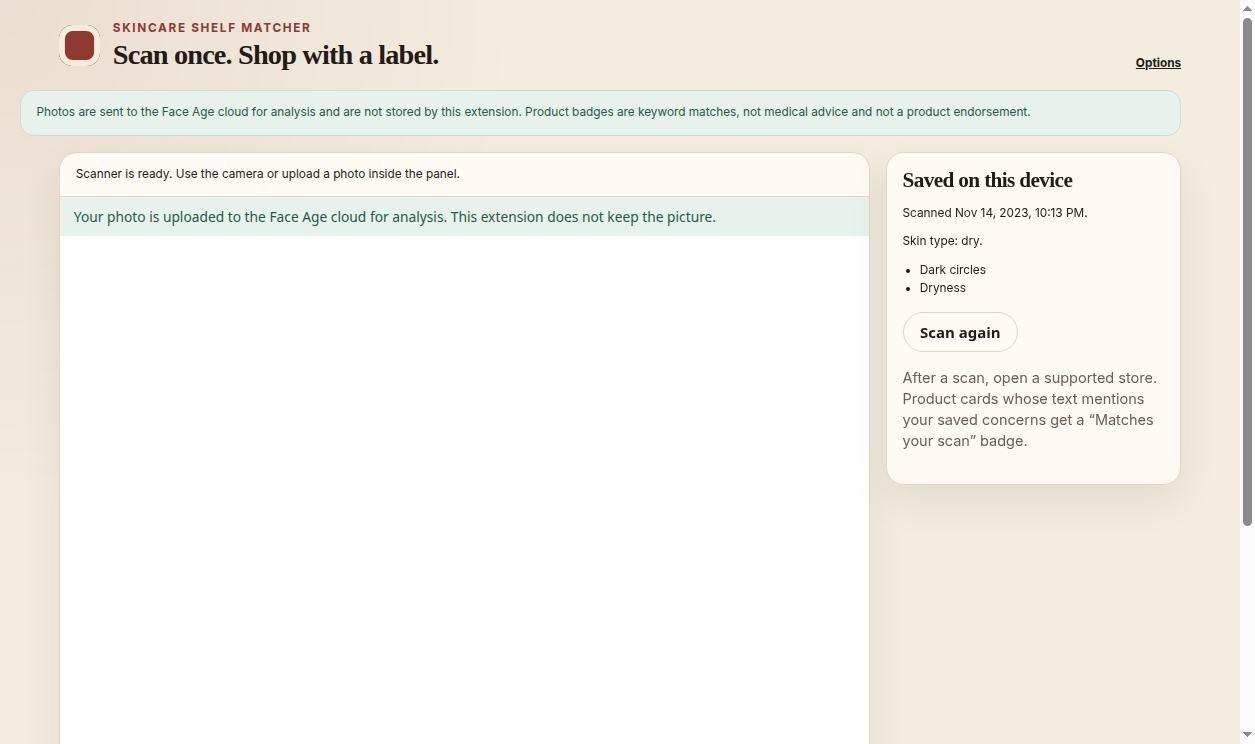
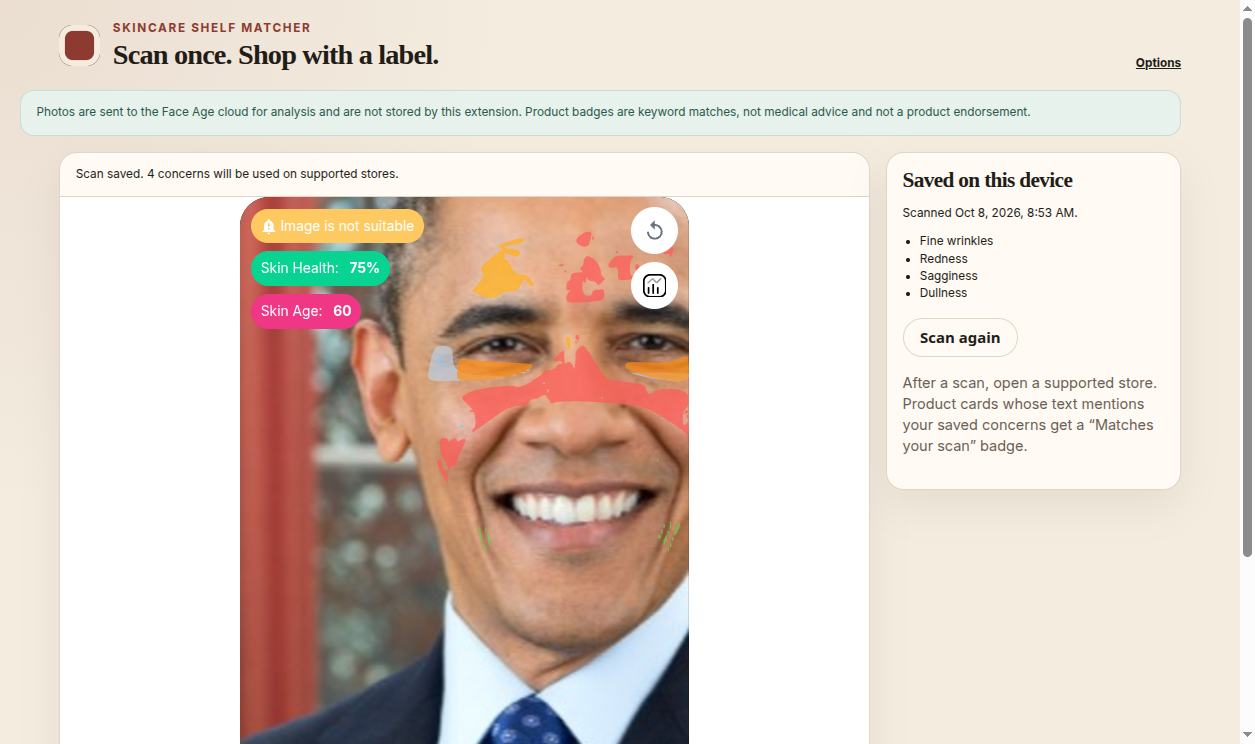
Keep the Face Age widget iframe on the scan page.
The SDK creates about:blank #FaceAge-module-iframe and writes the scanner into it. CSP patches for local scripts and no eval stay, and a sample photo can finish analysis when WebGL runs.

diff --git a/src/scan/scan.ts b/src/scan/scan.ts
@@ -62,12 +62,44 @@ function openOptions(event?: Event): void {
 document.querySelector("#options-link")?.addEventListener("click", openOptions);
 document.querySelector("#open-options")?.addEventListener("click", openOptions);
 
+function widgetFrame(): HTMLIFrameElement | null {
+  const frame = moduleEl?.querySelector("#FaceAge-module-iframe");
+  return frame instanceof HTMLIFrameElement ? frame : null;
+}
+
+/** Parent styles do not apply inside the widget frame, so copy the body rule across. */
+function pinWidgetBody(frame: HTMLIFrameElement): void {
+  const doc = frame.contentDocument;
+  if (!doc?.head || doc.getElementById("shelf-widget-body-style")) return;
+  let css = "#faceAge-module-body{height:760px !important;position:relative}";
+  for (const sheet of document.styleSheets) {
+    let rules: CSSRuleList;
+    try {
+      rules = sheet.cssRules;
+    } catch {
+      continue;
+    }
+    for (const rule of rules) {
+      if (rule instanceof CSSStyleRule && rule.selectorText === "#faceAge-module-body") {
+        css = rule.cssText;
+      }
+    }
+  }
+  const style = doc.createElement("style");
+  style.id = "shelf-widget-body-style";
+  style.textContent = css;
+  doc.head.appendChild(style);
+}
+
 function watchUntilMounted(): void {
   const timer = window.setInterval(() => {
+    const frame = widgetFrame();
+    const doc = frame?.contentDocument;
+    if (frame) pinWidgetBody(frame);
     const mounted =
-      moduleEl?.querySelector(".face_age, .getStartedBtn") ||
-      document.getElementById("face-age-css") ||
-      document.getElementById("faceAge-module-body");
+      doc?.querySelector(".face_age, .getStartedBtn") ||
+      doc?.getElementById("face-age-css") ||
+      doc?.getElementById("faceAge-module-body");
     if (!mounted) return;
     window.clearInterval(timer);
     setStatus("ready", "Scanner is ready. Use the camera or upload a photo inside the panel.");
@@ -161,7 +193,10 @@ async function boot(): Promise<void> {
 }
 
 function showMissingClientId(): void {
-  setStatus("needs-client-id", "Add a Face Age Client ID in the extension settings before scanning.");
+  setStatus(
+    "needs-client-id",
+    "Add a Face Age Client ID in the extension settings before scanning.",
+  );
   if (setupCopy) setupCopy.textContent = SETUP_MESSAGE;
   if (missingEl) missingEl.hidden = false;
   if (moduleEl) moduleEl.hidden = true;

diff --git a/tests/patch-faceage.test.ts b/tests/patch-faceage.test.ts
@@ -7,8 +7,11 @@ import {
   TEXT_REPLACEMENTS,
 } from "../scripts/patch-faceage.mjs";
 
+const IFRAME_CREATE = 'i.dom.elIframe=document.createElement("iframe")';
+
 const FIXTURE = [
   ...TEXT_REPLACEMENTS.map(([from]) => from),
+  IFRAME_CREATE,
   `${CHART_START}IGNORED${CHART_END}`,
 ].join("\n");
 
@@ -23,14 +26,14 @@ describe("patchFaceAgeBundle", () => {
     expect(patched).toContain("/vendor/swiper/swiper-bundle.min.css");
     expect(patched).toContain("/vendor/mediapipe/");
     expect(patched).toContain("/^(https?:|chrome-extension:)/");
-    expect(patched).toContain('querySelector("#FaceAge-module [data-faceage-root]")');
-    expect(patched).toContain("contentDocument");
-    expect(patched).toContain('typeof Swiper=="function"&&new Swiper');
-    expect(patched).toContain('typeof Chart==="function"');
+    expect(patched).toContain(IFRAME_CREATE);
+    expect(patched).toContain("frame.contentDocument");
+    expect(patched).toContain("view.Swiper");
+    expect(patched).toContain("view.Chart");
     expect(patched).not.toContain("https://cdn.jsdelivr.net");
     expect(patched).not.toContain("new Function");
     expect(patched).not.toContain('setAttribute("crossorigin","anonymous")');
-    expect(patched).not.toContain('elIframe=document.createElement("iframe")');
+    expect(patched).not.toContain("data-faceage-root");
     expect(patched).not.toContain(".text=");
     expect(patched).toContain("position: relative; z-index: 1; opacity: 1;");
   });

diff --git a/src/scan/scan.css b/src/scan/scan.css
@@ -73,15 +73,19 @@ aside {
   min-height: 760px;
   background: white;
 }
+#FaceAge-module-iframe {
+  display: block;
+  width: 100%;
+  min-height: 760px;
+  border: 0;
+  background: white;
+}
 #faceAge-module-body {
   height: 760px !important;
   position: relative;
 }
 #FaceAge-module[hidden] {
   display: none;
-}
-[data-faceage-root] {
-  min-height: 720px;
 }
 #missing {
   padding: 1.5rem 1.2rem 2rem;
@@ -114,7 +118,7 @@ aside h2 {
     grid-template-columns: 1fr;
   }
   #FaceAge-module,
-  [data-faceage-root] {
+  #FaceAge-module-iframe {
     min-height: 640px;
   }
 }

diff --git a/src/scan/scan.html b/src/scan/scan.html
@@ -34,9 +34,7 @@
           </p>
           <button id="open-options" class="primary" type="button">Open settings</button>
         </div>
-        <div id="FaceAge-module" hidden>
-          <div data-faceage-root></div>
-        </div>
+        <div id="FaceAge-module" hidden></div>
       </section>
       <aside>
         <h2>Saved on this device</h2>

diff --git a/README.md b/README.md
@@ -112,7 +112,7 @@ npm run build
 
 `npm test` runs Vitest on profile building, keyword matching, domain parsing, product-card badging, the Client ID setup rules, and the SDK patch.
 
-`npm run check:widget` loads `dist/` in Chrome for Testing, saves a Client ID from `FACEAGE_CLIENT_ID` or `.env.local`, and drives the scan page. Copy `.env.example` to `.env.local`. Do not commit a Client ID. The local fixture capture used by that check is written outside this repository so it does not replace `docs/screenshots/store.png`.
+`npm run check:widget` loads `dist/` in Chrome for Testing, saves a Client ID from `FACEAGE_CLIENT_ID` or `.env.local`, and drives the scan page through a sample photo. The check uses software WebGL. MediaPipe waits on a GL sync, and a Chrome launch with the GPU disabled never finishes that wait. Copy `.env.example` to `.env.local`. Do not commit a Client ID. The local fixture capture used by that check is written outside this repository so it does not replace `docs/screenshots/store.png`.
 
 English terms are the main dictionary. Persian (`fa`) terms are included so another language is a data change. Add a language by putting a string array on `terms` in `src/lib/dictionary.ts`.
 
@@ -125,10 +125,10 @@ The scanner is the extension page `src/scan/scan.html`. `#FaceAge-module` is in 
 The published build does not fit a normal extension page as shipped. `script-src` is `'self'` plus `'wasm-unsafe-eval'` (MediaPipe compiles WebAssembly). Remote scripts, inline scripts, and `eval` are not allowed. `scripts/patch-faceage.mjs` changes the bundle so it stays inside that policy:
 
 - Chart.js, Swiper, and MediaPipe Face Mesh (`@mediapipe/face_mesh` 0.3.1620248508) are copied into the extension. The SDK loads them from `/vendor/` instead of a CDN. The MediaPipe script tag no longer sets `crossorigin="anonymous"`, which extension files cannot satisfy.
-- The radar chart and Swiper carousels were inline scripts. The patch calls `Chart` and `Swiper` directly.
+- The radar chart and Swiper carousels were inline scripts inside the widget frame. The patch calls `Chart` and `Swiper` on that frame’s window instead.
 - Webpack’s `new Function("return this")` fallback, and MediaPipe’s embind `new Function` helper, are replaced with ordinary functions.
 - Webpack chunk loading only treated `http(s)` URLs as a script base. The patch also accepts `chrome-extension:` so the chunks packaged next to `faceage.js` load.
-- The widget created a blank iframe and wrote its UI into that frame. The patch mounts the same UI in `[data-faceage-root]` inside `#FaceAge-module`.
+- The widget still creates its own iframe, `#FaceAge-module-iframe`, with no `src`. The document is `about:blank`, and the SDK writes the scanner into it. It is not a remote page, a blob URL, or `srcdoc`, so the extension policy does not need a `frame-src` change. `#FaceAge-module` on the scan page is only the host. The extension does not add a second sandbox frame. Parent CSS does not apply inside the frame, so the scan page copies the `#faceAge-module-body` rule into the frame document.
 
 Stylesheets are not scripts. Face Age CSS still comes from `static.getfaceage.com`, and the UI fonts still come from Google Fonts. Swiper’s CSS is packaged.
 
